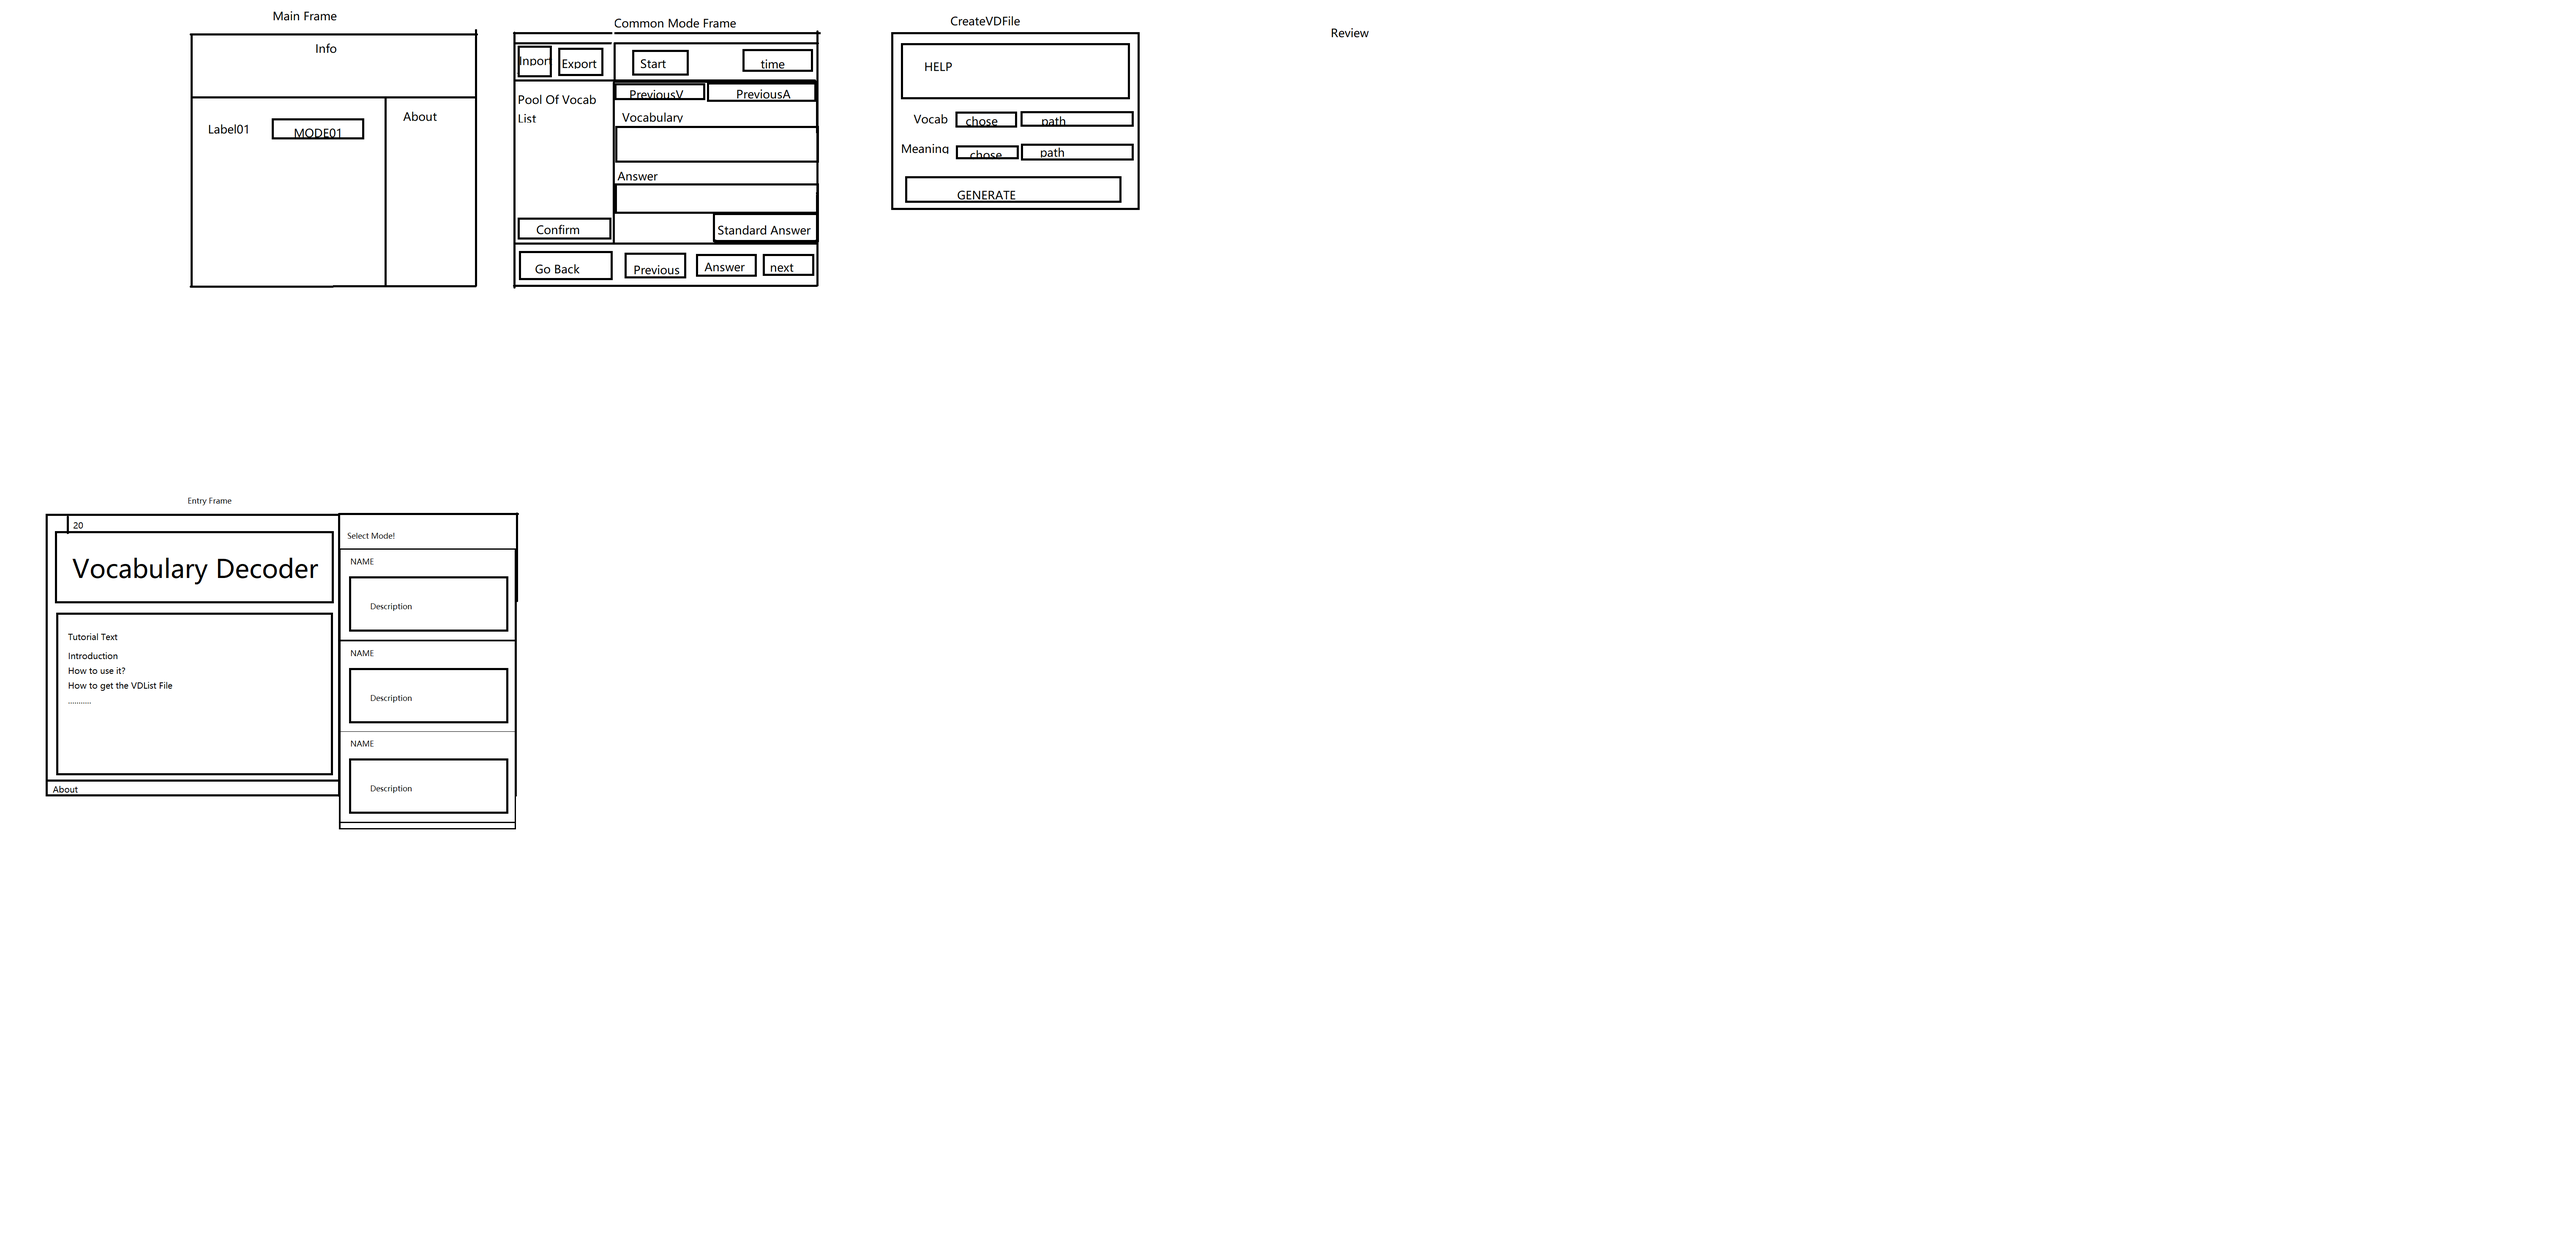
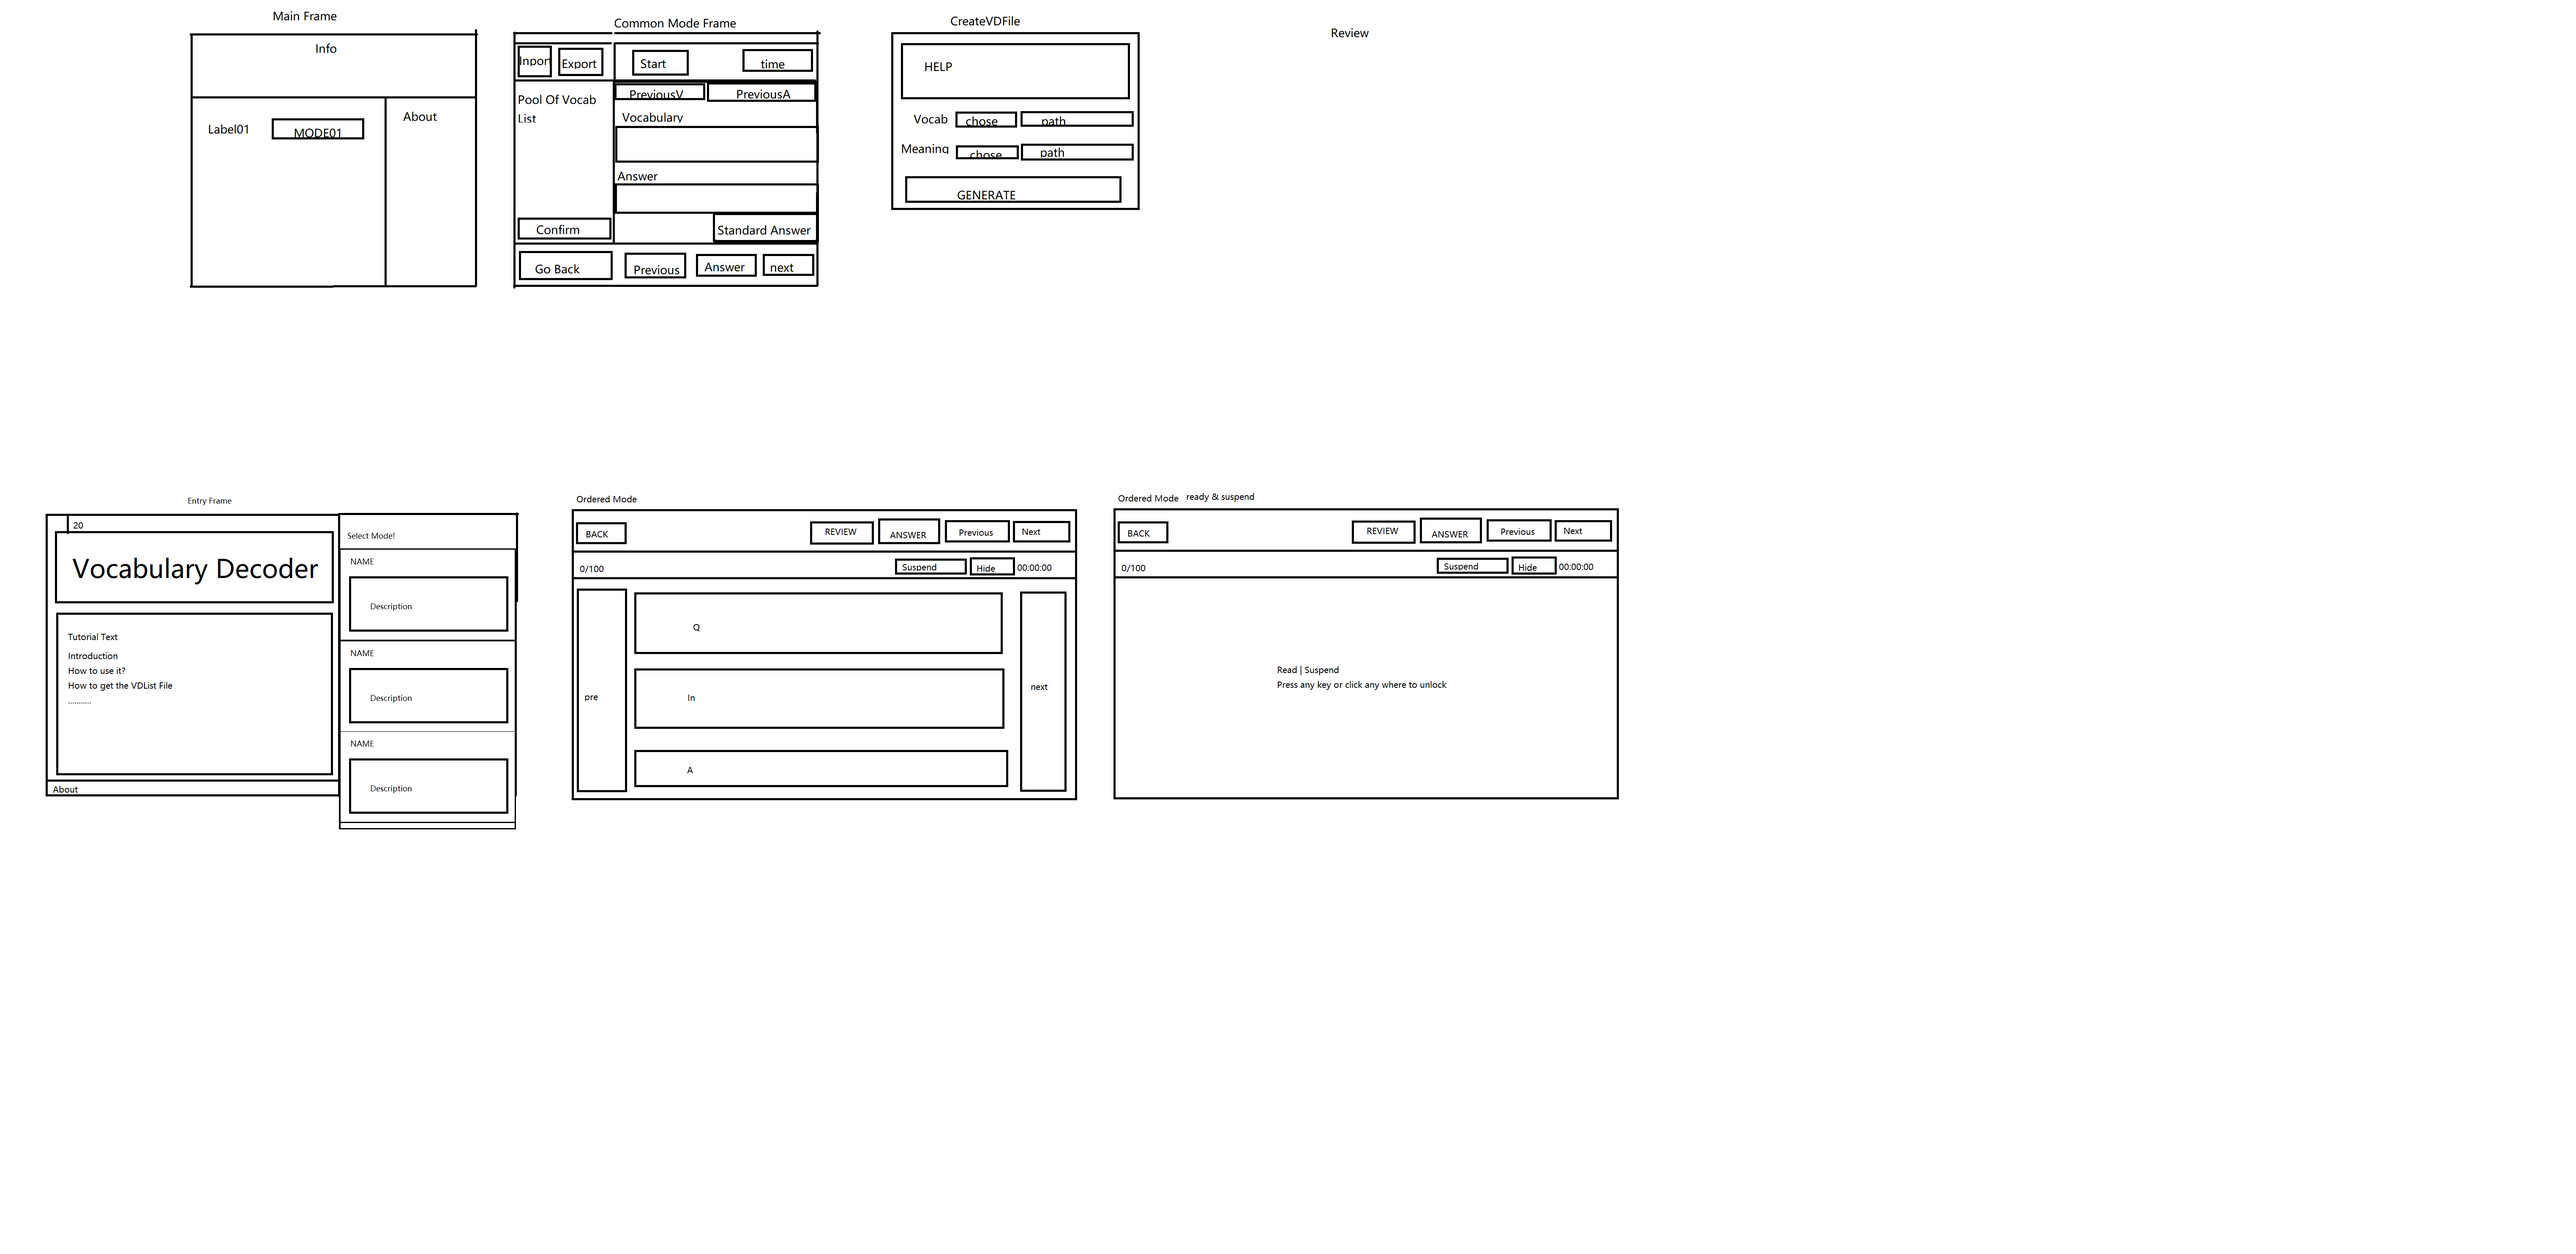
initialize FunctionalFrame and OrderedMode

Changed region(s): [[0.2182, 0.403, 0.6234, 0.6509], [0.4987, 0.527, 0.5299, 0.558]]

diff --git a/src/main/java/xyz/scottc/vd/frames/transitional/TransitionalFrame.java b/src/main/java/xyz/scottc/vd/frames/transitional/TransitionalFrame.java
@@ -21,7 +21,7 @@ public class TransitionalFrame extends JFrame {
     protected final LineSeparator separator02 = new LineSeparator(LineSeparator.HORIZONTAL, VDConstantsUtils.getSreenRectangle().width);
     protected final LineSeparator separator03 = new LineSeparator(LineSeparator.HORIZONTAL, VDConstantsUtils.getSreenRectangle().width);
 
-    protected static final int MARGIN = 20;
+    protected static final int MARGIN = VDConstantsUtils.getSreenRectangle().width / 100;
 
     public TransitionalFrame(String title) throws HeadlessException {
         super(title);
@@ -29,7 +29,6 @@ public class TransitionalFrame extends JFrame {
     }
 
     protected void rootPanelHandler() {
-        this.rootPanel.setLayout(layout);
 
         this.rootPanel.add(this.titleLabel);
 
@@ -45,23 +44,25 @@ public class TransitionalFrame extends JFrame {
     }
 
     protected void layoutHandler() {
-        layout.putConstraint(SpringLayout.WEST, this.titleLabel, MARGIN, SpringLayout.WEST, this.rootPanel);
-        layout.putConstraint(SpringLayout.NORTH, this.titleLabel, MARGIN, SpringLayout.NORTH, this.rootPanel);
+        this.rootPanel.setLayout(this.layout);
 
-        layout.putConstraint(SpringLayout.WEST, this.aboutLabel, MARGIN, SpringLayout.WEST, this.rootPanel);
-        layout.putConstraint(SpringLayout.SOUTH, this.aboutLabel, -MARGIN, SpringLayout.SOUTH, this.rootPanel);
+        this.layout.putConstraint(SpringLayout.WEST, this.titleLabel, MARGIN, SpringLayout.WEST, this.rootPanel);
+        this.layout.putConstraint(SpringLayout.NORTH, this.titleLabel, MARGIN, SpringLayout.NORTH, this.rootPanel);
 
-        layout.putConstraint(SpringLayout.WEST, this.separator01, MARGIN, SpringLayout.EAST, this.titleLabel);
+        this.layout.putConstraint(SpringLayout.WEST, this.aboutLabel, MARGIN, SpringLayout.WEST, this.rootPanel);
+        this.layout.putConstraint(SpringLayout.SOUTH, this.aboutLabel, -MARGIN, SpringLayout.SOUTH, this.rootPanel);
 
-        layout.putConstraint(SpringLayout.NORTH, this.separator02, MARGIN, SpringLayout.SOUTH, this.titleLabel);
-        layout.putConstraint(SpringLayout.EAST, this.separator02, 0, SpringLayout.WEST, this.separator01);
+        this.layout.putConstraint(SpringLayout.WEST, this.separator01, MARGIN, SpringLayout.EAST, this.titleLabel);
 
-        layout.putConstraint(SpringLayout.SOUTH, this.separator03, -MARGIN, SpringLayout.NORTH, this.aboutLabel);
-        layout.putConstraint(SpringLayout.EAST, this.separator03, 0, SpringLayout.WEST, this.separator01);
+        this.layout.putConstraint(SpringLayout.NORTH, this.separator02, MARGIN, SpringLayout.SOUTH, this.titleLabel);
+        this.layout.putConstraint(SpringLayout.EAST, this.separator02, 0, SpringLayout.WEST, this.separator01);
 
-        layout.putConstraint(SpringLayout.NORTH, this.introLabel, MARGIN, SpringLayout.SOUTH, this.separator02);
-        layout.putConstraint(SpringLayout.SOUTH, this.introLabel, -MARGIN, SpringLayout.NORTH, this.separator03);
-        layout.putConstraint(SpringLayout.WEST, this.introLabel, MARGIN, SpringLayout.WEST, this.rootPanel);
-        layout.putConstraint(SpringLayout.EAST, this.introLabel, -MARGIN, SpringLayout.WEST, this.separator01);
+        this.layout.putConstraint(SpringLayout.SOUTH, this.separator03, -MARGIN, SpringLayout.NORTH, this.aboutLabel);
+        this.layout.putConstraint(SpringLayout.EAST, this.separator03, 0, SpringLayout.WEST, this.separator01);
+
+        this.layout.putConstraint(SpringLayout.NORTH, this.introLabel, MARGIN, SpringLayout.SOUTH, this.separator02);
+        this.layout.putConstraint(SpringLayout.SOUTH, this.introLabel, -MARGIN, SpringLayout.NORTH, this.separator03);
+        this.layout.putConstraint(SpringLayout.WEST, this.introLabel, MARGIN, SpringLayout.WEST, this.rootPanel);
+        this.layout.putConstraint(SpringLayout.EAST, this.introLabel, -MARGIN, SpringLayout.WEST, this.separator01);
     }
 }

diff --git a/src/main/java/xyz/scottc/vd/frames/functional/FunctionalFrame.java b/src/main/java/xyz/scottc/vd/frames/functional/FunctionalFrame.java
@@ -1,0 +1,68 @@
+package xyz.scottc.vd.frames.functional;
+
+import xyz.scottc.vd.utils.VDConstantsUtils;
+import xyz.scottc.vd.utils.components.*;
+
+import javax.swing.*;
+import java.awt.*;
+
+public class FunctionalFrame extends JFrame {
+
+    protected static final int MARGIN = VDConstantsUtils.getSreenRectangle().width / 100;
+
+    protected final UtilJPanel rootPanel = new UtilJPanel();
+    protected final SpringLayout layout = new SpringLayout();
+
+    protected final UtilJButton backButton = new UtilJButton("Back", 40);
+    protected final UtilJButton hideTimerButton = new UtilJButton("Hide Timer", 30);
+
+    protected final VDAmountDisplay amount = new VDAmountDisplay(VDConstantsUtils.MICROSOFT_YAHEI_BOLD_30.deriveFont(Font.PLAIN));
+    protected final VDTimer timer = new VDTimer();
+
+    protected final LineSeparator separator01 = new LineSeparator(LineSeparator.HORIZONTAL, VDConstantsUtils.getSreenRectangle().width);
+    protected final LineSeparator separator02 = new LineSeparator(LineSeparator.HORIZONTAL, VDConstantsUtils.getSreenRectangle().width);
+
+    public FunctionalFrame(String title) throws HeadlessException {
+        super(title);
+        this.rootPanelHandler();
+        this.layoutHandler();
+    }
+
+    protected void rootPanelHandler() {
+        this.setContentPane(this.rootPanel);
+
+        this.rootPanel.add(this.backButton);
+
+        this.rootPanel.add(this.separator01);
+
+        this.rootPanel.add(this.timer);
+        this.timer.setFont(VDConstantsUtils.MICROSOFT_YAHEI_BOLD_30.deriveFont(Font.PLAIN));
+
+        this.rootPanel.add(this.hideTimerButton);
+        this.hideTimerButton.setFont(VDConstantsUtils.MICROSOFT_YAHEI_BOLD_30.deriveFont(Font.PLAIN));
+
+        this.rootPanel.add(this.amount);
+
+        this.rootPanel.add(this.separator02);
+    }
+
+    protected void layoutHandler() {
+        this.rootPanel.setLayout(this.layout);
+
+        this.layout.putConstraint(SpringLayout.NORTH, this.backButton, MARGIN, SpringLayout.NORTH, this.rootPanel);
+        this.layout.putConstraint(SpringLayout.WEST, this.backButton, MARGIN, SpringLayout.WEST, this.rootPanel);
+
+        this.layout.putConstraint(SpringLayout.NORTH, this.separator01, MARGIN, SpringLayout.SOUTH, this.backButton);
+
+        this.layout.putConstraint(SpringLayout.EAST, this.timer, -MARGIN * 2, SpringLayout.EAST, this.rootPanel);
+        this.layout.putConstraint(SpringLayout.NORTH, this.timer, MARGIN + 6, SpringLayout.SOUTH, this.separator01);
+
+        this.layout.putConstraint(SpringLayout.EAST, this.hideTimerButton, -MARGIN * 2, SpringLayout.WEST, this.timer);
+        this.layout.putConstraint(SpringLayout.NORTH, this.hideTimerButton, MARGIN, SpringLayout.SOUTH, this.separator01);
+
+        this.layout.putConstraint(SpringLayout.WEST, this.amount, MARGIN, SpringLayout.WEST, this.rootPanel);
+        this.layout.putConstraint(SpringLayout.NORTH, this.amount, 0, SpringLayout.NORTH, this.timer);
+
+        this.layout.putConstraint(SpringLayout.NORTH, this.separator02, MARGIN, SpringLayout.SOUTH, this.hideTimerButton);
+    }
+}

diff --git a/src/main/java/xyz/scottc/vd/Main.java b/src/main/java/xyz/scottc/vd/Main.java
@@ -1,7 +1,7 @@
 package xyz.scottc.vd;
 
 import xyz.scottc.vd.exceptions.FileCreatingException;
-import xyz.scottc.vd.frames.transitional.ListSelectionFrame;
+import xyz.scottc.vd.frames.functional.FunctionalFrame;
 import xyz.scottc.vd.utils.FileUtils;
 import xyz.scottc.vd.utils.VDConstantsUtils;
 
@@ -52,8 +52,9 @@ public class Main {
                 IllegalAccessException e) {
             e.printStackTrace();
         }
-        //EntryFrame frame = new EntryFrame("Vocabulary Decoder");
-        ListSelectionFrame frame = new ListSelectionFrame("List Selection");
+        //Entry frame = new Entry("Vocabulary Decoder");
+        //ListSelection frame = new ListSelection("List Selection");
+        FunctionalFrame frame = new FunctionalFrame("Functional Frame");
         frame.setDefaultCloseOperation(JFrame.EXIT_ON_CLOSE);
         frame.setBounds(VDConstantsUtils.getSreenRectangle());
         frame.setVisible(true);

diff --git a/src/main/java/xyz/scottc/vd/frames/transitional/Entry.java b/src/main/java/xyz/scottc/vd/frames/transitional/Entry.java
@@ -8,7 +8,7 @@ import xyz.scottc.vd.utils.components.UtilJLabel;
 import javax.swing.*;
 import java.awt.*;
 
-public class EntryFrame extends TransitionalFrame {
+public class Entry extends TransitionalFrame {
 
     private final UtilJLabel modeSelectionLabel = new UtilJLabel(ENText.MODE_SELECTION, VDConstantsUtils.MICROSOFT_YAHEI_BOLD_60);
     private final DefaultListModel<ModeListCell> modeListModel = new DefaultListModel<>();
@@ -16,7 +16,7 @@ public class EntryFrame extends TransitionalFrame {
     private final JScrollPane modeListScrollPane = new JScrollPane(this.modeList);
     private final UtilJButton confirmButton = new UtilJButton("Confirm", 60);
 
-    public EntryFrame(String title) throws HeadlessException {
+    public Entry(String title) throws HeadlessException {
         super(title);
         this.rootPanelHandler();
         this.layoutHandler();

diff --git a/src/main/java/xyz/scottc/vd/frames/transitional/ListSelection.java b/src/main/java/xyz/scottc/vd/frames/transitional/ListSelection.java
@@ -18,7 +18,7 @@ import java.io.File;
 import java.io.IOException;
 import java.util.List;
 
-public class ListSelectionFrame extends TransitionalFrame {
+public class ListSelection extends TransitionalFrame {
 
     private final UtilJButton backButton = new UtilJButton("Back", 40);
     private final UtilJButton importButton = new UtilJButton("Import", 30);
@@ -39,7 +39,7 @@ public class ListSelectionFrame extends TransitionalFrame {
 
     private final LineSeparator lineHelper01 = new LineSeparator(LineSeparator.HORIZONTAL, VDConstantsUtils.getSreenRectangle().width);
 
-    public ListSelectionFrame(String title) throws HeadlessException {
+    public ListSelection(String title) throws HeadlessException {
         super(title);
         this.rootPanelHandler();
         this.layoutHandler();

diff --git a/src/main/java/xyz/scottc/vd/frames/functional/orderedMode/OrderedMode.java b/src/main/java/xyz/scottc/vd/frames/functional/orderedMode/OrderedMode.java
@@ -1,0 +1,22 @@
+package xyz.scottc.vd.frames.functional.orderedMode;
+
+import xyz.scottc.vd.frames.functional.FunctionalFrame;
+
+import java.awt.*;
+
+public class OrderedMode extends FunctionalFrame {
+
+    public OrderedMode(String title) throws HeadlessException {
+        super(title);
+    }
+
+    @Override
+    protected void rootPanelHandler() {
+        super.rootPanelHandler();
+    }
+
+    @Override
+    protected void layoutHandler() {
+        super.layoutHandler();
+    }
+}

diff --git a/src/test/java/JTreeTest.java b/src/test/java/JTreeTest.java
@@ -21,7 +21,7 @@ public class JTreeTest extends JFrame {
         }
         //MainFrame frame = new MainFrame("Vocabulary Decoder");
         JTreeTest frame = new JTreeTest();
-        //ListSelectionFrame frame = new ListSelectionFrame("List Selection");
+        //ListSelection frame = new ListSelection("List Selection");
         frame.setDefaultCloseOperation(JFrame.EXIT_ON_CLOSE);
         frame.setBounds(0, 0, 500, 500);
         frame.setVisible(true);
